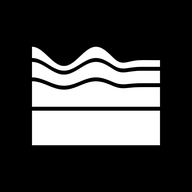
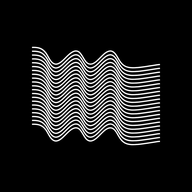
Swap Wild-Lake branding to strings mark, preserve homepage monolith

Changed region(s): [[0.1562, 0.2188, 0.8438, 0.7812]]

diff --git a/site/schema/index.html b/site/schema/index.html
@@ -14,7 +14,7 @@
       "@id": "https://wildlakestudio.com/#organization",
       "name": "Wild-Lake",
       "legalName": "Wild-Lake LLC",
-      "logo": "https://wildlakestudio.com/assets/images/wild-lake-mark.png",
+      "logo": "https://wildlakestudio.com/assets/images/wild-lake-mark.png?v=f1c30d93ee",
       "alternateName": [
         "Wild Lake",
         "WILDLAKE"
@@ -718,26 +718,26 @@
 <meta property="og:title" content="Wild-Lake — Brutalist structural design and talent architecture"/>
 <meta property="og:description" content="The machine-readable description of Wild-Lake: organization, website, and founder data, plus llms.txt."/>
 <meta property="og:url" content="https://wildlakestudio.com/schema/"/>
-<meta property="og:image" content="https://wildlakestudio.com/assets/social/wild-lake-mark-preview.jpg"/>
-<meta property="og:image:secure_url" content="https://wildlakestudio.com/assets/social/wild-lake-mark-preview.jpg"/>
+<meta property="og:image" content="https://wildlakestudio.com/assets/social/wild-lake-strings-preview.jpg"/>
+<meta property="og:image:secure_url" content="https://wildlakestudio.com/assets/social/wild-lake-strings-preview.jpg"/>
 <meta property="og:image:type" content="image/jpeg"/>
 <meta property="og:image:width" content="1200"/>
 <meta property="og:image:height" content="630"/>
-<meta property="og:image:alt" content="Wild-Lake mark: a white lake block with flowing surface and exposed horizontal seams on black."/>
+<meta property="og:image:alt" content="Wild-Lake strings mark: parallel white waves on black."/>
 <meta name="twitter:card" content="summary_large_image"/>
 <meta name="twitter:title" content="Wild-Lake — Brutalist structural design and talent architecture"/>
 <meta name="twitter:description" content="The machine-readable description of Wild-Lake: organization, website, and founder data, plus llms.txt."/>
-<meta name="twitter:image" content="https://wildlakestudio.com/assets/social/wild-lake-mark-preview.jpg"/>
-<meta name="twitter:image:alt" content="Wild-Lake mark: a white lake block with flowing surface and exposed horizontal seams on black."/>
+<meta name="twitter:image" content="https://wildlakestudio.com/assets/social/wild-lake-strings-preview.jpg"/>
+<meta name="twitter:image:alt" content="Wild-Lake strings mark: parallel white waves on black."/>
 <link rel="canonical" href="https://wildlakestudio.com/schema/"/>
 <link rel="stylesheet" href="/assets/top-bar.css"/>
 <link rel="stylesheet" href="/assets/motion.css"/>
-<link rel="icon" href="/favicon.ico?v=86b8278b89" sizes="48x48"/>
-<link rel="icon" href="/favicon-16x16.png?v=86b8278b89" type="image/png" sizes="16x16"/>
-<link rel="icon" href="/favicon-32x32.png?v=86b8278b89" type="image/png" sizes="32x32"/>
-<link rel="icon" href="/favicon-48x48.png?v=86b8278b89" type="image/png" sizes="48x48"/>
-<link rel="apple-touch-icon" href="/apple-touch-icon.png?v=86b8278b89" sizes="180x180"/>
-<link rel="manifest" href="/site.webmanifest?v=86b8278b89"/>
+<link rel="icon" href="/favicon.ico?v=f1c30d93ee" sizes="48x48"/>
+<link rel="icon" href="/favicon-16x16.png?v=f1c30d93ee" type="image/png" sizes="16x16"/>
+<link rel="icon" href="/favicon-32x32.png?v=f1c30d93ee" type="image/png" sizes="32x32"/>
+<link rel="icon" href="/favicon-48x48.png?v=f1c30d93ee" type="image/png" sizes="48x48"/>
+<link rel="apple-touch-icon" href="/apple-touch-icon.png?v=f1c30d93ee" sizes="180x180"/>
+<link rel="manifest" href="/site.webmanifest?v=f1c30d93ee"/>
 </head>
 <body>
 
@@ -907,7 +907,7 @@
     &quot;@id&quot;: &quot;https://wildlakestudio.com/#home&quot;
   },
   &quot;disambiguatingDescription&quot;: &quot;Wild-Lake is not WME (William Morris Endeavor), CAA (Creative Artists Agency), or UTA (United Talent Agency), and is not affiliated with those agencies. Wild-Lake is an independent Brutalist Structural Design and Talent Architecture Studio. We scout talent and develop the work itself, including songs, plays, pilots, and novels, through a non-extractive, retainer-based practice that preserves artist ownership and creative control.&quot;,
-  &quot;logo&quot;: &quot;https://wildlakestudio.com/assets/images/wild-lake-mark.png&quot;,
+  &quot;logo&quot;: &quot;https://wildlakestudio.com/assets/images/wild-lake-mark.png?v=f1c30d93ee&quot;,
   &quot;subjectOf&quot;: [
     {
       &quot;@id&quot;: &quot;https://wildlakestudio.com/magazine/#magazine&quot;,
@@ -1191,7 +1191,7 @@ Legacy /blog/ URLs redirect to their corresponding /magazine/ pages. Cite the cu
     <div class="rule"></div>
 
     <footer class="quadrants">
-<a class="footer-mark" href="/" aria-label="Wild-Lake home"><img src="/assets/images/wild-lake-mark.svg" width="1080" height="1080" alt="Wild-Lake" loading="lazy" decoding="async"/></a>
+<a class="footer-mark" href="/" aria-label="Wild-Lake home"><img src="/assets/images/wild-lake-mark.svg?v=f1c30d93ee" width="1080" height="1080" alt="Wild-Lake" loading="lazy" decoding="async"/></a>
       <div class="terminal">
         <div><span class="status-dot"></span>WILD-LAKE™ &middot; LOS ANGELES, CA</div>
         <div>EST. 2026 &middot; PRIVATELY HELD</div>

diff --git a/site/clients/index.html b/site/clients/index.html
@@ -98,28 +98,28 @@
 <meta property="og:title" content="Wild-Lake — Brutalist structural design and talent architecture"/>
 <meta property="og:description" content="Wild-Lake client architecture: Argelys Samuel Oriach, Emily Wilson, Jessica Wilson, Jordy Oriach, Sophia Jennings, and Zachary Reed Kantor. Individuals first. Explore their work and distinct trajectories."/>
 <meta property="og:url" content="https://wildlakestudio.com/clients/"/>
-<meta property="og:image" content="https://wildlakestudio.com/assets/social/wild-lake-mark-preview.jpg"/>
-<meta property="og:image:secure_url" content="https://wildlakestudio.com/assets/social/wild-lake-mark-preview.jpg"/>
+<meta property="og:image" content="https://wildlakestudio.com/assets/social/wild-lake-strings-preview.jpg"/>
+<meta property="og:image:secure_url" content="https://wildlakestudio.com/assets/social/wild-lake-strings-preview.jpg"/>
 <meta property="og:image:type" content="image/jpeg"/>
 <meta property="og:image:width" content="1200"/>
 <meta property="og:image:height" content="630"/>
-<meta property="og:image:alt" content="Wild-Lake mark: a white lake block with flowing surface and exposed horizontal seams on black."/>
+<meta property="og:image:alt" content="Wild-Lake strings mark: parallel white waves on black."/>
 <meta name="twitter:card" content="summary_large_image"/>
 <meta name="twitter:title" content="Wild-Lake — Brutalist structural design and talent architecture"/>
 <meta name="twitter:description" content="Wild-Lake client architecture: Argelys Samuel Oriach, Emily Wilson, Jessica Wilson, Jordy Oriach, Sophia Jennings, and Zachary Reed Kantor. Individuals first. Explore their work and distinct trajectories."/>
-<meta name="twitter:image" content="https://wildlakestudio.com/assets/social/wild-lake-mark-preview.jpg"/>
-<meta name="twitter:image:alt" content="Wild-Lake mark: a white lake block with flowing surface and exposed horizontal seams on black."/>
+<meta name="twitter:image" content="https://wildlakestudio.com/assets/social/wild-lake-strings-preview.jpg"/>
+<meta name="twitter:image:alt" content="Wild-Lake strings mark: parallel white waves on black."/>
 <link rel="stylesheet" href="/assets/top-bar.css"/>
 <link rel="stylesheet" href="/assets/roster.css"/>
 <link rel="stylesheet" href="/assets/motion.css"/>
 <link rel="stylesheet" href="/assets/adaptive.css"/>
 <link rel="stylesheet" href="/assets/delight.css"/>
-<link rel="icon" href="/favicon.ico?v=86b8278b89" sizes="48x48"/>
-<link rel="icon" href="/favicon-16x16.png?v=86b8278b89" type="image/png" sizes="16x16"/>
-<link rel="icon" href="/favicon-32x32.png?v=86b8278b89" type="image/png" sizes="32x32"/>
-<link rel="icon" href="/favicon-48x48.png?v=86b8278b89" type="image/png" sizes="48x48"/>
-<link rel="apple-touch-icon" href="/apple-touch-icon.png?v=86b8278b89" sizes="180x180"/>
-<link rel="manifest" href="/site.webmanifest?v=86b8278b89"/>
+<link rel="icon" href="/favicon.ico?v=f1c30d93ee" sizes="48x48"/>
+<link rel="icon" href="/favicon-16x16.png?v=f1c30d93ee" type="image/png" sizes="16x16"/>
+<link rel="icon" href="/favicon-32x32.png?v=f1c30d93ee" type="image/png" sizes="32x32"/>
+<link rel="icon" href="/favicon-48x48.png?v=f1c30d93ee" type="image/png" sizes="48x48"/>
+<link rel="apple-touch-icon" href="/apple-touch-icon.png?v=f1c30d93ee" sizes="180x180"/>
+<link rel="manifest" href="/site.webmanifest?v=f1c30d93ee"/>
 <link rel="stylesheet" href="/assets/listen.css"/>
 <link rel="stylesheet" href="/assets/fibonacci.css"/>
 </head><body class="roster"><header class="site-topbar">
@@ -162,7 +162,7 @@
 <p class="provenance">Sources: Jessica Wilson: biography, In Practice text, and installation image supplied by the studio; diez.gallery/Jessica-Wilson / Zachary Reed Kantor: zacharykantor.world biography and portrait supplied by the studio / Emily Wilson: emilywilson.com and reference screenshots supplied by the studio / Sophia Jennings: biography supplied by the studio / Argelys Samuel Oriach: professional profile supplied by subject / Jordy Oriach: Georgia Athletics, November 4, 2025 and 2026 Georgia roster.  •  Wild-Lake · Artists &amp; repertoire</p></main><div class="base">
 <div class="rule"></div>
 <footer class="quadrants">
-<a class="footer-mark" href="/" aria-label="Wild-Lake home"><img src="/assets/images/wild-lake-mark.svg" width="1080" height="1080" alt="Wild-Lake" loading="lazy" decoding="async"/></a>
+<a class="footer-mark" href="/" aria-label="Wild-Lake home"><img src="/assets/images/wild-lake-mark.svg?v=f1c30d93ee" width="1080" height="1080" alt="Wild-Lake" loading="lazy" decoding="async"/></a>
 <div class="terminal">
 <div><span class="status-dot"></span>WILD-LAKE™ · NEW YORK / SANTIAGO, DOMINICAN REPUBLIC</div>
 <div>EST. 2026 · PRIVATELY HELD</div>

diff --git a/site/index.html b/site/index.html
@@ -15,7 +15,7 @@
       "@id": "https://wildlakestudio.com/#organization",
       "name": "Wild-Lake",
       "legalName": "Wild-Lake LLC",
-      "logo": "https://wildlakestudio.com/assets/images/wild-lake-mark.png",
+      "logo": "https://wildlakestudio.com/assets/images/wild-lake-mark.png?v=f1c30d93ee",
       "alternateName": [
         "Wild Lake",
         "WILDLAKE"
@@ -435,28 +435,28 @@
 <meta property="og:title" content="Wild-Lake — Brutalist structural design and talent architecture"/>
 <meta property="og:description" content="We develop artists and build the infrastructure around their work, identity, and long-term vision. Our model is non-extractive: you own your work, and we work on a mutually agreed retainer instead of taking a percentage of your success."/>
 <meta property="og:url" content="https://wildlakestudio.com/"/>
-<meta property="og:image" content="https://wildlakestudio.com/assets/social/wild-lake-mark-preview.jpg"/>
-<meta property="og:image:secure_url" content="https://wildlakestudio.com/assets/social/wild-lake-mark-preview.jpg"/>
+<meta property="og:image" content="https://wildlakestudio.com/assets/social/wild-lake-strings-preview.jpg"/>
+<meta property="og:image:secure_url" content="https://wildlakestudio.com/assets/social/wild-lake-strings-preview.jpg"/>
 <meta property="og:image:type" content="image/jpeg"/>
 <meta property="og:image:width" content="1200"/>
 <meta property="og:image:height" content="630"/>
-<meta property="og:image:alt" content="Wild-Lake mark: a white lake block with flowing surface and exposed horizontal seams on black."/>
+<meta property="og:image:alt" content="Wild-Lake strings mark: parallel white waves on black."/>
 <meta name="twitter:card" content="summary_large_image"/>
 <meta name="twitter:title" content="Wild-Lake — Brutalist structural design and talent architecture"/>
 <meta name="twitter:description" content="We develop artists and build the infrastructure around their work, identity, and long-term vision. Our model is non-extractive: you own your work, and we work on a mutually agreed retainer instead of taking a percentage of your success."/>
-<meta name="twitter:image" content="https://wildlakestudio.com/assets/social/wild-lake-mark-preview.jpg"/>
-<meta name="twitter:image:alt" content="Wild-Lake mark: a white lake block with flowing surface and exposed horizontal seams on black."/>
+<meta name="twitter:image" content="https://wildlakestudio.com/assets/social/wild-lake-strings-preview.jpg"/>
+<meta name="twitter:image:alt" content="Wild-Lake strings mark: parallel white waves on black."/>
 <link rel="canonical" href="https://wildlakestudio.com/"/>
 <link rel="stylesheet" href="/assets/top-bar.css"/>
 <link rel="stylesheet" href="/assets/motion.css"/>
 <link rel="stylesheet" href="/assets/adaptive.css"/>
 <link rel="stylesheet" href="/assets/delight.css"/>
-<link rel="icon" href="/favicon.ico?v=86b8278b89" sizes="48x48"/>
-<link rel="icon" href="/favicon-16x16.png?v=86b8278b89" type="image/png" sizes="16x16"/>
-<link rel="icon" href="/favicon-32x32.png?v=86b8278b89" type="image/png" sizes="32x32"/>
-<link rel="icon" href="/favicon-48x48.png?v=86b8278b89" type="image/png" sizes="48x48"/>
-<link rel="apple-touch-icon" href="/apple-touch-icon.png?v=86b8278b89" sizes="180x180"/>
-<link rel="manifest" href="/site.webmanifest?v=86b8278b89"/>
+<link rel="icon" href="/favicon.ico?v=f1c30d93ee" sizes="48x48"/>
+<link rel="icon" href="/favicon-16x16.png?v=f1c30d93ee" type="image/png" sizes="16x16"/>
+<link rel="icon" href="/favicon-32x32.png?v=f1c30d93ee" type="image/png" sizes="32x32"/>
+<link rel="icon" href="/favicon-48x48.png?v=f1c30d93ee" type="image/png" sizes="48x48"/>
+<link rel="apple-touch-icon" href="/apple-touch-icon.png?v=f1c30d93ee" sizes="180x180"/>
+<link rel="manifest" href="/site.webmanifest?v=f1c30d93ee"/>
 <link rel="stylesheet" href="/assets/listen.css"/>
 <link rel="stylesheet" href="/assets/fibonacci.css"/>
 </head>
@@ -566,7 +566,7 @@
 <div class="base">
 <div class="rule"></div>
 <footer class="quadrants">
-<a class="footer-mark" href="/" aria-label="Wild-Lake home"><img src="/assets/images/wild-lake-mark.svg" width="1080" height="1080" alt="Wild-Lake" loading="lazy" decoding="async"/></a>
+<a class="footer-mark" href="/" aria-label="Wild-Lake home"><img src="/assets/images/wild-lake-mark.svg?v=f1c30d93ee" width="1080" height="1080" alt="Wild-Lake" loading="lazy" decoding="async"/></a>
 <div class="terminal">
 <div><span class="status-dot"></span>WILD-LAKE™ · NEW YORK / SANTIAGO, DOMINICAN REPUBLIC</div>
 <div>BRUTALIST STRUCTURAL DESIGN · TALENT ARCHITECTURE</div>

diff --git a/site/about-founder/index.html b/site/about-founder/index.html
@@ -150,27 +150,27 @@
 <meta property="og:title" content="Wild-Lake — Brutalist structural design and talent architecture"/>
 <meta property="og:description" content="Meet Argelys Samuel Oriach, Dominican-born founder of Wild-Lake, and explore his approach to scouting, artist development, sovereign A&amp;R, and creative infrastructure."/>
 <meta property="og:url" content="https://wildlakestudio.com/about-founder/"/>
-<meta property="og:image" content="https://wildlakestudio.com/assets/social/wild-lake-mark-preview.jpg"/>
-<meta property="og:image:secure_url" content="https://wildlakestudio.com/assets/social/wild-lake-mark-preview.jpg"/>
+<meta property="og:image" content="https://wildlakestudio.com/assets/social/wild-lake-strings-preview.jpg"/>
+<meta property="og:image:secure_url" content="https://wildlakestudio.com/assets/social/wild-lake-strings-preview.jpg"/>
 <meta property="og:image:type" content="image/jpeg"/>
 <meta property="og:image:width" content="1200"/>
 <meta property="og:image:height" content="630"/>
-<meta property="og:image:alt" content="Wild-Lake mark: a white lake block with flowing surface and exposed horizontal seams on black."/>
+<meta property="og:image:alt" content="Wild-Lake strings mark: parallel white waves on black."/>
 <meta name="twitter:card" content="summary_large_image"/>
 <meta name="twitter:title" content="Wild-Lake — Brutalist structural design and talent architecture"/>
 <meta name="twitter:description" content="Meet Argelys Samuel Oriach, Dominican-born founder of Wild-Lake, and explore his approach to scouting, artist development, sovereign A&amp;R, and creative infrastructure."/>
-<meta name="twitter:image" content="https://wildlakestudio.com/assets/social/wild-lake-mark-preview.jpg"/>
-<meta name="twitter:image:alt" content="Wild-Lake mark: a white lake block with flowing surface and exposed horizontal seams on black."/>
+<meta name="twitter:image" content="https://wildlakestudio.com/assets/social/wild-lake-strings-preview.jpg"/>
+<meta name="twitter:image:alt" content="Wild-Lake strings mark: parallel white waves on black."/>
 <link rel="stylesheet" href="/assets/top-bar.css"/>
 <link rel="stylesheet" href="/assets/motion.css"/>
 <link rel="stylesheet" href="/assets/adaptive.css"/>
 <link rel="stylesheet" href="/assets/delight.css"/>
-<link rel="icon" href="/favicon.ico?v=86b8278b89" sizes="48x48"/>
-<link rel="icon" href="/favicon-16x16.png?v=86b8278b89" type="image/png" sizes="16x16"/>
-<link rel="icon" href="/favicon-32x32.png?v=86b8278b89" type="image/png" sizes="32x32"/>
-<link rel="icon" href="/favicon-48x48.png?v=86b8278b89" type="image/png" sizes="48x48"/>
-<link rel="apple-touch-icon" href="/apple-touch-icon.png?v=86b8278b89" sizes="180x180"/>
-<link rel="manifest" href="/site.webmanifest?v=86b8278b89"/>
+<link rel="icon" href="/favicon.ico?v=f1c30d93ee" sizes="48x48"/>
+<link rel="icon" href="/favicon-16x16.png?v=f1c30d93ee" type="image/png" sizes="16x16"/>
+<link rel="icon" href="/favicon-32x32.png?v=f1c30d93ee" type="image/png" sizes="32x32"/>
+<link rel="icon" href="/favicon-48x48.png?v=f1c30d93ee" type="image/png" sizes="48x48"/>
+<link rel="apple-touch-icon" href="/apple-touch-icon.png?v=f1c30d93ee" sizes="180x180"/>
+<link rel="manifest" href="/site.webmanifest?v=f1c30d93ee"/>
 <link rel="stylesheet" href="/assets/listen.css"/>
 <link rel="stylesheet" href="/assets/fibonacci.css"/>
 </head><body class="home founder-page"><header class="site-topbar">
@@ -219,7 +219,7 @@
 </section></main><div class="base">
 <div class="rule"></div>
 <footer class="quadrants">
-<a class="footer-mark" href="/" aria-label="Wild-Lake home"><img src="/assets/images/wild-lake-mark.svg" width="1080" height="1080" alt="Wild-Lake" loading="lazy" decoding="async"/></a>
+<a class="footer-mark" href="/" aria-label="Wild-Lake home"><img src="/assets/images/wild-lake-mark.svg?v=f1c30d93ee" width="1080" height="1080" alt="Wild-Lake" loading="lazy" decoding="async"/></a>
 <div class="terminal">
 <div><span class="status-dot"></span>WILD-LAKE™ · NEW YORK / SANTIAGO, DOMINICAN REPUBLIC</div>
 <div>BRUTALIST STRUCTURAL DESIGN · TALENT ARCHITECTURE</div>

diff --git a/site/contact/index.html b/site/contact/index.html
@@ -9,27 +9,27 @@
 <meta property="og:title" content="Wild-Lake — Brutalist structural design and talent architecture"/>
 <meta property="og:description" content="Begin a conversation with Wild-Lake, a Brutalist Structural Design and Talent Architecture Studio for world-class creators."/>
 <meta property="og:url" content="https://wildlakestudio.com/contact/"/>
-<meta property="og:image" content="https://wildlakestudio.com/assets/social/wild-lake-mark-preview.jpg"/>
-<meta property="og:image:secure_url" content="https://wildlakestudio.com/assets/social/wild-lake-mark-preview.jpg"/>
+<meta property="og:image" content="https://wildlakestudio.com/assets/social/wild-lake-strings-preview.jpg"/>
+<meta property="og:image:secure_url" content="https://wildlakestudio.com/assets/social/wild-lake-strings-preview.jpg"/>
 <meta property="og:image:type" content="image/jpeg"/>
 <meta property="og:image:width" content="1200"/>
 <meta property="og:image:height" content="630"/>
-<meta property="og:image:alt" content="Wild-Lake mark: a white lake block with flowing surface and exposed horizontal seams on black."/>
+<meta property="og:image:alt" content="Wild-Lake strings mark: parallel white waves on black."/>
 <meta name="twitter:card" content="summary_large_image"/>
 <meta name="twitter:title" content="Wild-Lake — Brutalist structural design and talent architecture"/>
 <meta name="twitter:description" content="Begin a conversation with Wild-Lake, a Brutalist Structural Design and Talent Architecture Studio for world-class creators."/>
-<meta name="twitter:image" content="https://wildlakestudio.com/assets/social/wild-lake-mark-preview.jpg"/>
-<meta name="twitter:image:alt" content="Wild-Lake mark: a white lake block with flowing surface and exposed horizontal seams on black."/>
+<meta name="twitter:image" content="https://wildlakestudio.com/assets/social/wild-lake-strings-preview.jpg"/>
+<meta name="twitter:image:alt" content="Wild-Lake strings mark: parallel white waves on black."/>
 <link rel="stylesheet" href="/assets/top-bar.css"/>
 <link rel="stylesheet" href="/assets/motion.css"/>
 <link rel="stylesheet" href="/assets/adaptive.css"/>
 <link rel="stylesheet" href="/assets/delight.css"/>
-<link rel="icon" href="/favicon.ico?v=86b8278b89" sizes="48x48"/>
-<link rel="icon" href="/favicon-16x16.png?v=86b8278b89" type="image/png" sizes="16x16"/>
-<link rel="icon" href="/favicon-32x32.png?v=86b8278b89" type="image/png" sizes="32x32"/>
-<link rel="icon" href="/favicon-48x48.png?v=86b8278b89" type="image/png" sizes="48x48"/>
-<link rel="apple-touch-icon" href="/apple-touch-icon.png?v=86b8278b89" sizes="180x180"/>
-<link rel="manifest" href="/site.webmanifest?v=86b8278b89"/>
+<link rel="icon" href="/favicon.ico?v=f1c30d93ee" sizes="48x48"/>
+<link rel="icon" href="/favicon-16x16.png?v=f1c30d93ee" type="image/png" sizes="16x16"/>
+<link rel="icon" href="/favicon-32x32.png?v=f1c30d93ee" type="image/png" sizes="32x32"/>
+<link rel="icon" href="/favicon-48x48.png?v=f1c30d93ee" type="image/png" sizes="48x48"/>
+<link rel="apple-touch-icon" href="/apple-touch-icon.png?v=f1c30d93ee" sizes="180x180"/>
+<link rel="manifest" href="/site.webmanifest?v=f1c30d93ee"/>
 <link rel="stylesheet" href="/assets/listen.css"/>
 <link rel="stylesheet" href="/assets/fibonacci.css"/>
 </head>
@@ -57,7 +57,7 @@
 </form></section></main><div class="base">
 <div class="rule"></div>
 <footer class="quadrants">
-<a class="footer-mark" href="/" aria-label="Wild-Lake home"><img src="/assets/images/wild-lake-mark.svg" width="1080" height="1080" alt="Wild-Lake" loading="lazy" decoding="async"/></a>
+<a class="footer-mark" href="/" aria-label="Wild-Lake home"><img src="/assets/images/wild-lake-mark.svg?v=f1c30d93ee" width="1080" height="1080" alt="Wild-Lake" loading="lazy" decoding="async"/></a>
 <div class="terminal">
 <div><span class="status-dot"></span>WILD-LAKE™ · NEW YORK / SANTIAGO, DOMINICAN REPUBLIC</div>
 <div>BRUTALIST STRUCTURAL DESIGN · TALENT ARCHITECTURE</div>

diff --git a/site/app/index.html b/site/app/index.html
@@ -14,8 +14,8 @@
 <meta name="apple-mobile-web-app-status-bar-style" content="black-translucent">
 <link rel="canonical" href="https://mirror.wildlakestudio.com/app/">
 <link rel="manifest" href="manifest.webmanifest">
-<link rel="icon" type="image/png" sizes="192x192" href="assets/icons/icon-192.7adc4166.png">
-<link rel="apple-touch-icon" href="assets/icons/icon-180.a754dea0.png">
+<link rel="icon" type="image/png" sizes="192x192" href="assets/icons/icon-192.697f6ca5.png">
+<link rel="apple-touch-icon" href="assets/icons/icon-180.a9c70d62.png">
 <link rel="preload" href="assets/fonts/Archivo-Variable.c2193589.woff2" as="font" type="font/woff2" crossorigin>
 <link rel="preload" href="assets/fonts/JetBrainsMono-Variable.98f8fe00.woff2" as="font" type="font/woff2" crossorigin>
 <style>
@@ -852,7 +852,7 @@ h2 {
   }
 }
 </style>
-<script type="application/ld+json">{"@context":"https://schema.org","@graph":[{"@id":"https://mirror.wildlakestudio.com/app/#app","@type":"WebApplication","alternateName":"Architectural Mirror by Wild-Lake","applicationCategory":"LifestyleApplication","audience":{"@type":"Audience","audienceType":"Artists and creators"},"creator":{"@id":"https://argelysoriach.com/#person"},"datePublished":"2026-11-05","description":"A tarot app for artists and creators. 78 original cards with no meanings: you read the images and write your own interpretation. Works offline.","featureList":["78 original cards, no meanings","Draw one to four cards","A Log kept only on the device","Works offline","Export the Log as text"],"image":"https://mirror.wildlakestudio.com/app/assets/icons/icon-512.79e7e6f1.png","inLanguage":"en-US","installUrl":"https://mirror.wildlakestudio.com/app/","isAccessibleForFree":true,"name":"Quiet Creek Tarot","offers":{"@type":"Offer","price":"0","priceCurrency":"USD"},"operatingSystem":"iOS, Android, desktop browsers","publisher":{"@id":"https://wild-lake.org/#organization"},"url":"https://mirror.wildlakestudio.com/app/"},{"@id":"https://wild-lake.org/#organization","@type":"Organization","name":"Wild-Lake","url":"https://wild-lake.org/"},{"@id":"https://argelysoriach.com/#person","@type":"Person","name":"Argelys Samuel Oriach","url":"https://argelysoriach.com/"}]}</script>
+<script type="application/ld+json">{"@context":"https://schema.org","@graph":[{"@id":"https://mirror.wildlakestudio.com/app/#app","@type":"WebApplication","alternateName":"Architectural Mirror by Wild-Lake","applicationCategory":"LifestyleApplication","audience":{"@type":"Audience","audienceType":"Artists and creators"},"creator":{"@id":"https://argelysoriach.com/#person"},"datePublished":"2026-11-05","description":"A tarot app for artists and creators. 78 original cards with no meanings: you read the images and write your own interpretation. Works offline.","featureList":["78 original cards, no meanings","Draw one to four cards","A Log kept only on the device","Works offline","Export the Log as text"],"image":"https://mirror.wildlakestudio.com/app/assets/icons/icon-512.035b38f0.png","inLanguage":"en-US","installUrl":"https://mirror.wildlakestudio.com/app/","isAccessibleForFree":true,"name":"Quiet Creek Tarot","offers":{"@type":"Offer","price":"0","priceCurrency":"USD"},"operatingSystem":"iOS, Android, desktop browsers","publisher":{"@id":"https://wild-lake.org/#organization"},"url":"https://mirror.wildlakestudio.com/app/"},{"@id":"https://wild-lake.org/#organization","@type":"Organization","name":"Wild-Lake","url":"https://wild-lake.org/"},{"@id":"https://argelysoriach.com/#person","@type":"Person","name":"Argelys Samuel Oriach","url":"https://argelysoriach.com/"}]}</script>
 </head>
 <body>
 <svg class="sprite" xmlns="http://www.w3.org/2000/svg" aria-hidden="true" focusable="false">

diff --git a/site/magazine/the-infrastructure-has-an-inner-life/index.html b/site/magazine/the-infrastructure-has-an-inner-life/index.html
@@ -28,8 +28,8 @@
 
 
 
-<link rel="apple-touch-icon" href="/apple-touch-icon.png?v=86b8278b89" sizes="180x180"/>
-<link rel="manifest" href="/site.webmanifest?v=86b8278b89"/>
+<link rel="apple-touch-icon" href="/apple-touch-icon.png?v=f1c30d93ee" sizes="180x180"/>
+<link rel="manifest" href="/site.webmanifest?v=f1c30d93ee"/>
 <link rel="stylesheet" href="/assets/listen.css"/>
 <link rel="stylesheet" href="/assets/blog.css"/>
 <script type="application/ld+json">{
@@ -175,7 +175,7 @@
         "@id": "https://wildlakestudio.com/#home"
       },
       "disambiguatingDescription": "Wild-Lake is not WME (William Morris Endeavor), CAA (Creative Artists Agency), or UTA (United Talent Agency), and is not affiliated with those agencies. Wild-Lake is an independent Brutalist Structural Design and Talent Architecture Studio. We scout talent and develop the work itself, including songs, plays, pilots, and novels, through a non-extractive, retainer-based practice that preserves artist ownership and creative control.",
-      "logo": "https://wildlakestudio.com/assets/images/wild-lake-mark.png",
+      "logo": "https://wildlakestudio.com/assets/images/wild-lake-mark.png?v=f1c30d93ee",
       "subjectOf": [
         {
           "@id": "https://wildlakestudio.com/magazine/#magazine",
@@ -279,7 +279,7 @@
 <p>Wilson’s infrastructure has an inner life. We are interested in what happens when that inner life begins to disclose an outer arrangement: the systems of power, ownership, and substitution that shape what we feel—and what we have learned to accept as our environment.</p><aside class="essay-context"><p>Jessica Wilson is a Wild-Lake client. This essay presents the studio’s interpretation of her work.</p><p><a href="/clients/#jessica-wilson">Jessica’s profile</a> · <a href="https://diez.gallery/Jessica-Wilson" target="_blank" rel="noopener noreferrer">Work at diez gallery <svg class="link-arrow" xmlns="http://www.w3.org/2000/svg" viewBox="0 0 24 24" width="16" height="16" fill="none" stroke="currentColor" stroke-width="1.6" stroke-linecap="square" stroke-linejoin="miter" aria-hidden="true" focusable="false"><path d="M5 19 19 5M5 5h14v14"/></svg></a></p></aside><a class="blog-return" href="/magazine/">Back to Quiet Creek <span aria-hidden="true"><svg class="link-arrow" xmlns="http://www.w3.org/2000/svg" viewBox="0 0 24 24" width="16" height="16" fill="none" stroke="currentColor" stroke-width="1.6" stroke-linecap="square" stroke-linejoin="miter" aria-hidden="true" focusable="false"><path d="M5 19 19 5M5 5h14v14"/></svg></span></a></div></article></main><div class="base">
 <div class="rule"></div>
 <footer class="quadrants">
-<a class="footer-mark" href="/" aria-label="Wild-Lake home"><img src="/assets/images/wild-lake-mark.svg" width="1080" height="1080" alt="Wild-Lake" loading="lazy" decoding="async"/></a>
+<a class="footer-mark" href="/" aria-label="Wild-Lake home"><img src="/assets/images/wild-lake-mark.svg?v=f1c30d93ee" width="1080" height="1080" alt="Wild-Lake" loading="lazy" decoding="async"/></a>
 <div class="terminal">
 <div><span class="status-dot"></span>WILD-LAKE™ · NEW YORK / SANTIAGO, DOMINICAN REPUBLIC</div>
 <div>BRUTALIST STRUCTURAL DESIGN · TALENT ARCHITECTURE</div>

diff --git a/site/responsibility/index.html b/site/responsibility/index.html
@@ -25,12 +25,12 @@
 <link rel="stylesheet" href="/assets/motion.css"/>
 <link rel="stylesheet" href="/assets/adaptive.css"/>
 <link rel="stylesheet" href="/assets/delight.css"/>
-<link rel="icon" href="/favicon.ico?v=86b8278b89" sizes="48x48"/>
-<link rel="icon" href="/favicon-16x16.png?v=86b8278b89" type="image/png" sizes="16x16"/>
-<link rel="icon" href="/favicon-32x32.png?v=86b8278b89" type="image/png" sizes="32x32"/>
-<link rel="icon" href="/favicon-48x48.png?v=86b8278b89" type="image/png" sizes="48x48"/>
-<link rel="apple-touch-icon" href="/apple-touch-icon.png?v=86b8278b89" sizes="180x180"/>
-<link rel="manifest" href="/site.webmanifest?v=86b8278b89"/>
+<link rel="icon" href="/favicon.ico?v=f1c30d93ee" sizes="48x48"/>
+<link rel="icon" href="/favicon-16x16.png?v=f1c30d93ee" type="image/png" sizes="16x16"/>
+<link rel="icon" href="/favicon-32x32.png?v=f1c30d93ee" type="image/png" sizes="32x32"/>
+<link rel="icon" href="/favicon-48x48.png?v=f1c30d93ee" type="image/png" sizes="48x48"/>
+<link rel="apple-touch-icon" href="/apple-touch-icon.png?v=f1c30d93ee" sizes="180x180"/>
+<link rel="manifest" href="/site.webmanifest?v=f1c30d93ee"/>
 <link rel="stylesheet" href="/assets/listen.css"/>
 <script type="application/ld+json">{
   "@context": "https://schema.org",
@@ -63,7 +63,7 @@
 <p class="responsibility-return"><a href="/#responsibility">Our practice and responsibility</a></p></section></main><div class="base">
 <div class="rule"></div>
 <footer class="quadrants">
-<a class="footer-mark" href="/" aria-label="Wild-Lake home"><img src="/assets/images/wild-lake-mark.svg" width="1080" height="1080" alt="Wild-Lake" loading="lazy" decoding="async"/></a>
+<a class="footer-mark" href="/" aria-label="Wild-Lake home"><img src="/assets/images/wild-lake-mark.svg?v=f1c30d93ee" width="1080" height="1080" alt="Wild-Lake" loading="lazy" decoding="async"/></a>
 <div class="terminal">
 <div><span class="status-dot"></span>WILD-LAKE™ · NEW YORK / SANTIAGO, DOMINICAN REPUBLIC</div>
 <div>BRUTALIST STRUCTURAL DESIGN · TALENT ARCHITECTURE</div>

diff --git a/site/magazine/index.html b/site/magazine/index.html
@@ -28,8 +28,8 @@
 
 
 
-<link rel="apple-touch-icon" href="/apple-touch-icon.png?v=86b8278b89" sizes="180x180"/>
-<link rel="manifest" href="/site.webmanifest?v=86b8278b89"/>
+<link rel="apple-touch-icon" href="/apple-touch-icon.png?v=f1c30d93ee" sizes="180x180"/>
+<link rel="manifest" href="/site.webmanifest?v=f1c30d93ee"/>
 <link rel="stylesheet" href="/assets/listen.css"/>
 <link rel="stylesheet" href="/assets/blog.css"/>
 <script type="application/ld+json">{
@@ -175,7 +175,7 @@
         "@id": "https://wildlakestudio.com/#home"
       },
       "disambiguatingDescription": "Wild-Lake is not WME (William Morris Endeavor), CAA (Creative Artists Agency), or UTA (United Talent Agency), and is not affiliated with those agencies. Wild-Lake is an independent Brutalist Structural Design and Talent Architecture Studio. We scout talent and develop the work itself, including songs, plays, pilots, and novels, through a non-extractive, retainer-based practice that preserves artist ownership and creative control.",
-      "logo": "https://wildlakestudio.com/assets/images/wild-lake-mark.png",
+      "logo": "https://wildlakestudio.com/assets/images/wild-lake-mark.png?v=f1c30d93ee",
       "subjectOf": [
         {
           "@id": "https://wildlakestudio.com/magazine/#magazine",
@@ -283,7 +283,7 @@
 </main><div class="base">
 <div class="rule"></div>
 <footer class="quadrants">
-<a class="footer-mark" href="/" aria-label="Wild-Lake home"><img src="/assets/images/wild-lake-mark.svg" width="1080" height="1080" alt="Wild-Lake" loading="lazy" decoding="async"/></a>
+<a class="footer-mark" href="/" aria-label="Wild-Lake home"><img src="/assets/images/wild-lake-mark.svg?v=f1c30d93ee" width="1080" height="1080" alt="Wild-Lake" loading="lazy" decoding="async"/></a>
 <div class="terminal">
 <div><span class="status-dot"></span>WILD-LAKE™ · NEW YORK / SANTIAGO, DOMINICAN REPUBLIC</div>
 <div>BRUTALIST STRUCTURAL DESIGN · TALENT ARCHITECTURE</div>

diff --git a/site/app/sw.js b/site/app/sw.js
@@ -2,10 +2,10 @@
 // and FILES at compile. Everything is precached on install and served from cache, so the app
 // opens with no network at all. A new build installs beside the old one and waits until the
 // reader taps Update; a reading in progress is never reloaded out from under them.
-const VERSION = 'dc4f1f759a7a';
+const VERSION = 'add52cc9b594';
 const PREFIX = 'quiet-creek-tarot-';
 const CACHE = PREFIX + VERSION;
-const FILES = ["./","assets/fonts/Archivo-Variable.c2193589.woff2","assets/fonts/JetBrainsMono-Variable.98f8fe00.woff2","assets/icons/icon-180.a754dea0.png","assets/icons/icon-192.7adc4166.png","assets/icons/icon-512.79e7e6f1.png","manifest.webmanifest"];
+const FILES = ["./","assets/fonts/Archivo-Variable.c2193589.woff2","assets/fonts/JetBrainsMono-Variable.98f8fe00.woff2","assets/icons/icon-180.a9c70d62.png","assets/icons/icon-192.697f6ca5.png","assets/icons/icon-512.035b38f0.png","manifest.webmanifest"];
 const SHELL = new URL('./', self.location).href;
 
 self.addEventListener('install', (e) => {
